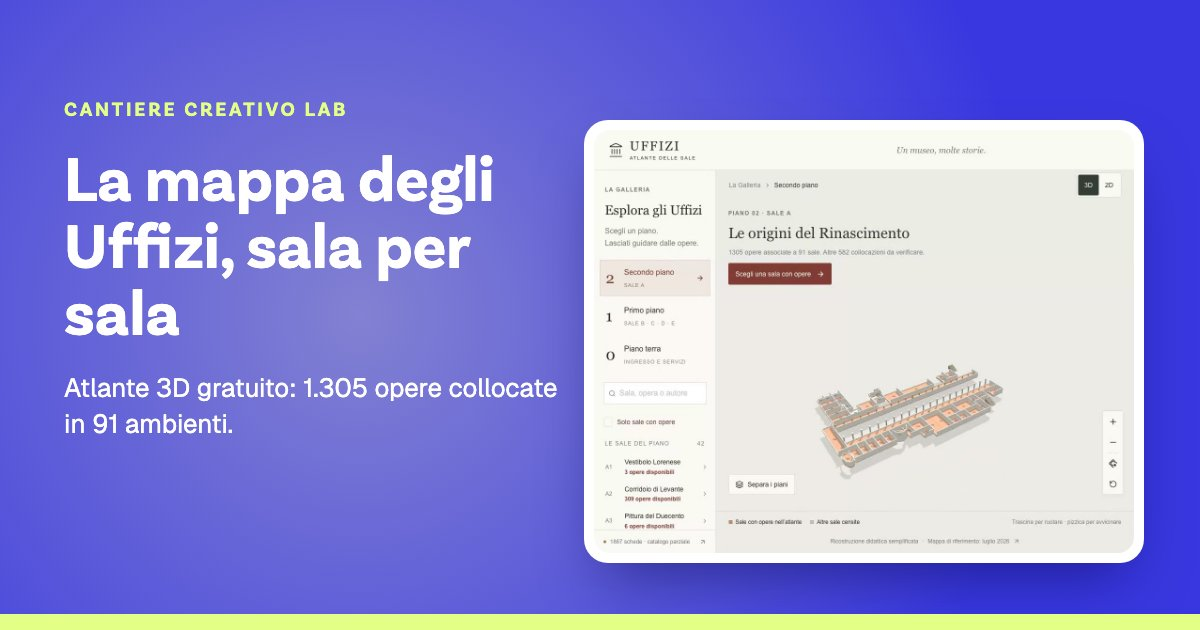
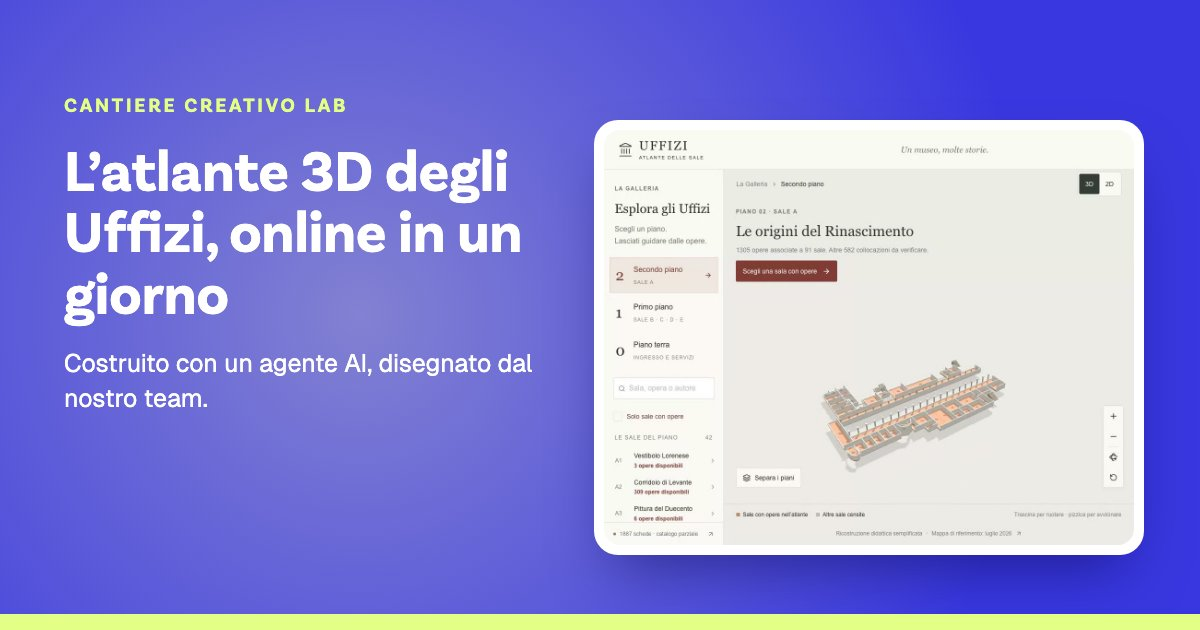
fix(lab): SEO delle pagine Lab
- title e description dell'indice allineati al nuovo hero (IT/EN)
- og:url e og:site_name nei meta tag
- sottotitolo dell'hero non più h2 (prop abstractTag in HeroBlue)
- JSON-LD dell'indice: CollectionPage, BreadcrumbList, ItemList
- immagini social nuove per l'indice e rigenerata quella dell'atlante

diff --git a/lib/lab.js b/lib/lab.js
@@ -20,7 +20,7 @@ export function withLabMenu(items = []) {
 }
 
 // Meta tag nella stessa forma di _seoMetaTags, letta da renderMetaTags.
-export function buildSeoTags({ title, description, image }, locale = "it") {
+export function buildSeoTags({ title, description, image }, locale = "it", path = null) {
   const imageUrl = image ? `${SITE_URL}${image}` : null;
   const tags = [
     { tag: "title", attributes: null, content: title },
@@ -28,11 +28,15 @@ export function buildSeoTags({ title, description, image }, locale = "it") {
     { tag: "meta", attributes: { property: "og:title", content: title }, content: null },
     { tag: "meta", attributes: { property: "og:description", content: description }, content: null },
     { tag: "meta", attributes: { property: "og:type", content: "website" }, content: null },
+    { tag: "meta", attributes: { property: "og:site_name", content: "Cantiere Creativo" }, content: null },
     { tag: "meta", attributes: { property: "og:locale", content: locale === "en" ? "en_GB" : "it_IT" }, content: null },
     { tag: "meta", attributes: { name: "twitter:card", content: "summary_large_image" }, content: null },
     { tag: "meta", attributes: { name: "twitter:title", content: title }, content: null },
     { tag: "meta", attributes: { name: "twitter:description", content: description }, content: null },
   ];
+  if (path) {
+    tags.push({ tag: "meta", attributes: { property: "og:url", content: `${SITE_URL}${path}` }, content: null });
+  }
   if (imageUrl) {
     tags.push(
       { tag: "meta", attributes: { property: "og:image", content: imageUrl }, content: null },

diff --git a/components/lab/LabIndexJsonLd.js b/components/lab/LabIndexJsonLd.js
@@ -1,0 +1,47 @@
+import Head from "next/head";
+import { resolveLink } from "lib/utils";
+import { SITE_URL } from "lib/lab";
+
+// Dati strutturati dell'indice Lab: raccolta di progetti, breadcrumb ed elenco dei progetti.
+export default function LabIndexJsonLd({ labIndex, projects, locale = "it" }) {
+  const home = `${SITE_URL}${locale === "it" ? "" : `/${locale}`}`;
+  const url = `${SITE_URL}${resolveLink({ model: labIndex.model, slug: null }, locale)}`;
+  const graph = [
+    {
+      "@type": "CollectionPage",
+      "@id": url,
+      url,
+      name: labIndex.seo.title,
+      description: labIndex.seo.description,
+      inLanguage: locale === "en" ? "en" : "it-IT",
+      isPartOf: { "@type": "WebSite", name: "Cantiere Creativo", url: SITE_URL },
+      publisher: { "@type": "Organization", name: "Cantiere Creativo", url: SITE_URL },
+    },
+    {
+      "@type": "BreadcrumbList",
+      itemListElement: [
+        { "@type": "ListItem", position: 1, name: "Home", item: home },
+        { "@type": "ListItem", position: 2, name: "Lab", item: url },
+      ],
+    },
+    {
+      "@type": "ItemList",
+      itemListElement: projects.map((p, i) => ({
+        "@type": "ListItem",
+        position: i + 1,
+        name: p.shortTitle,
+        url: `${SITE_URL}${resolveLink(p, locale)}`,
+      })),
+    },
+  ];
+  return (
+    <Head>
+      <script
+        type="application/ld+json"
+        dangerouslySetInnerHTML={{
+          __html: JSON.stringify({ "@context": "https://schema.org", "@graph": graph }),
+        }}
+      />
+    </Head>
+  );
+}

diff --git a/pages/lab/index.js b/pages/lab/index.js
@@ -10,12 +10,15 @@ import LabIndexCta from "components/lab/LabIndexCta";
 import LabServices from "components/lab/LabServices";
 import { getLabProjects, getLabIndex } from "src/data/lab";
 import { buildSeoTags, getLabSite } from "lib/lab";
+import { resolveLink } from "lib/utils";
+import LabIndexJsonLd from "components/lab/LabIndexJsonLd";
 
 export default function LabIndex({ locale, site, page }) {
   const labIndex = getLabIndex(locale);
   const [featured, ...others] = getLabProjects(locale);
   return (
     <Layout site={site} locale={locale} page={page} headerTxt="white">
+      <LabIndexJsonLd labIndex={labIndex} projects={[featured, ...others]} locale={locale} />
       <HeroBlue
         page={{
           title: (
@@ -29,6 +32,7 @@ export default function LabIndex({ locale, site, page }) {
           ),
           abstract: labIndex.abstract,
         }}
+        abstractTag="div"
       >
         <LabIndexHeroActions actions={labIndex.heroActions} locale={locale} />
       </HeroBlue>
@@ -59,7 +63,7 @@ export async function getStaticProps({ locale = "it" }) {
     id: labIndex.id,
     slug: null,
     title: labIndex.title,
-    seo: buildSeoTags(labIndex.seo, locale),
+    seo: buildSeoTags(labIndex.seo, locale, resolveLink({ model: labIndex.model, slug: null }, locale)),
   };
   return { props: { locale, site, page } };
 }

diff --git a/pages/lab/[slug].js b/pages/lab/[slug].js
@@ -10,13 +10,14 @@ import LabCta from "components/lab/LabCta";
 import LabJsonLd from "components/lab/LabJsonLd";
 import { getLabProjects, getLabProject, getLabIndex, getLabAlts } from "src/data/lab";
 import { buildSeoTags, getLabSite } from "lib/lab";
+import { resolveLink } from "lib/utils";
 
 export default function LabProject({ locale, site, page }) {
   const project = getLabProject(page.slug, locale);
   return (
     <Layout site={site} locale={locale} page={page} parent={getLabIndex(locale)} headerTxt="white">
       <LabJsonLd project={project} locale={locale} />
-      <HeroBlue page={{ title: project.title, abstract: project.abstract }}>
+      <HeroBlue page={{ title: project.title, abstract: project.abstract }} abstractTag="div">
         <LabHeroActions project={project} locale={locale} />
       </HeroBlue>
       <div className="vertical-spaces !pt-0 lg:!pt-0">
@@ -47,7 +48,7 @@ export async function getStaticProps({ params, locale = "it" }) {
     slug: project.slug,
     title: project.shortTitle,
     alts: getLabAlts(project.id),
-    seo: buildSeoTags(project.seo, locale),
+    seo: buildSeoTags(project.seo, locale, resolveLink(project, locale)),
   };
   return { props: { locale, site, page } };
 }

diff --git a/components/hero/HeroBlue.js b/components/hero/HeroBlue.js
@@ -1,7 +1,8 @@
 import { renderHTML } from "lib/utils";
 import Image from "next/image";
 
-export default function HeroBlue({ page, children }) {
+export default function HeroBlue({ page, children, abstractTag = "h2" }) {
+  const AbstractTag = abstractTag;
   const { title, subtitle, abstract, text } = page;
   return (
     <>
@@ -17,9 +18,9 @@ export default function HeroBlue({ page, children }) {
               </h2>
             )}
             {(abstract || text) && (
-              <h2 className="text-md max-w-prose xl:text-lg">
+              <AbstractTag className="text-md max-w-prose xl:text-lg">
                 {renderHTML(abstract || text)}
-              </h2>
+              </AbstractTag>
             )}
           </div>
           {children}

diff --git a/src/data/lab/index.js b/src/data/lab/index.js
@@ -44,10 +44,10 @@ const labIndex = {
     secondary: { label: "Prenota una video call" },
   },
   seo: {
-    title: "Cantiere Creativo Lab: l'AI ci rende veloci, il gusto diversi",
+    title: "Cantiere Creativo Lab: progetti AI con gusto ed esperienza",
     description:
-      "Usiamo agenti e AI a ogni livello, poi ci mettiamo l'occhio per ciò che è bello e serve davvero. Nel Lab trovi i prodotti che lo dimostrano.",
-    image: "/lab/atlante-uffizi/og-atlante-uffizi.jpg",
+      "Usiamo agenti e AI a ogni livello, poi ci mettiamo gusto ed esperienza: l'occhio per ciò che è bello e serve davvero. Nel Lab i progetti che lo dimostrano.",
+    image: "/lab/og-lab-it.jpg",
   },
   manifesto: {
     eyebrow: "Come lavoriamo",

diff --git a/src/data/lab/lab-index.en.js b/src/data/lab/lab-index.en.js
@@ -16,10 +16,10 @@ const labIndexEn = {
     secondary: { label: "Book a video call" },
   },
   seo: {
-    title: "Cantiere Creativo Lab: AI makes us fast, taste makes us different",
+    title: "Cantiere Creativo Lab: AI projects with taste and experience",
     description:
-      "We use agents and AI at every level, then add an eye for what is beautiful and useful. The Lab collects the products that prove it.",
-    image: "/lab/atlante-uffizi/og-uffizi-atlas-en.jpg",
+      "We use agents and AI at every level, then add taste and experience: an eye for what is beautiful and useful. The Lab shows the projects that prove it.",
+    image: "/lab/og-lab-en.jpg",
   },
   manifesto: {
     eyebrow: "How we work",
